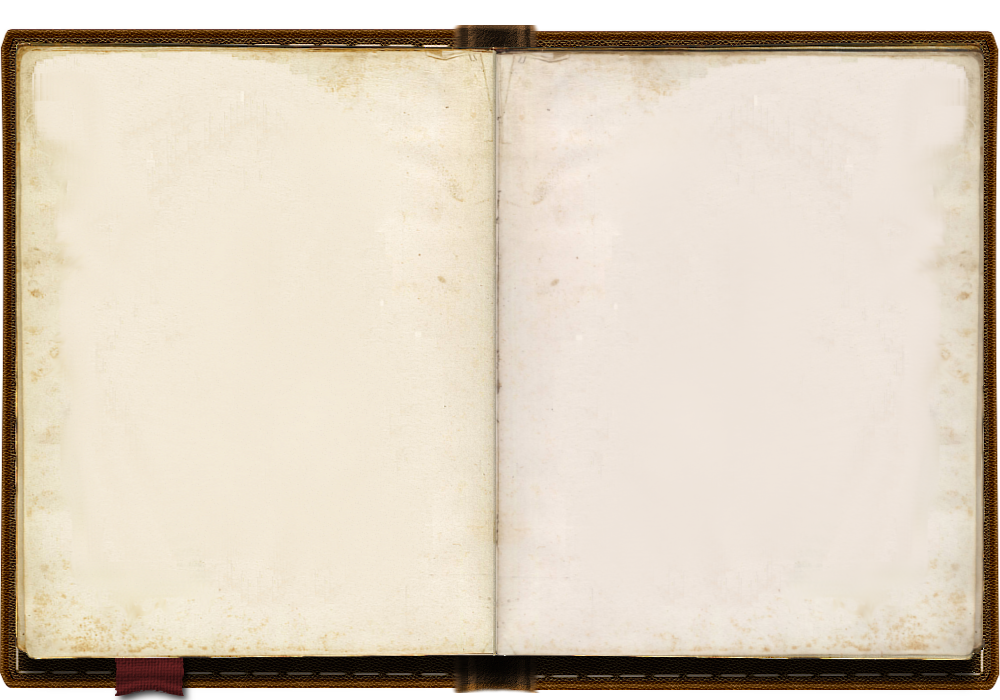
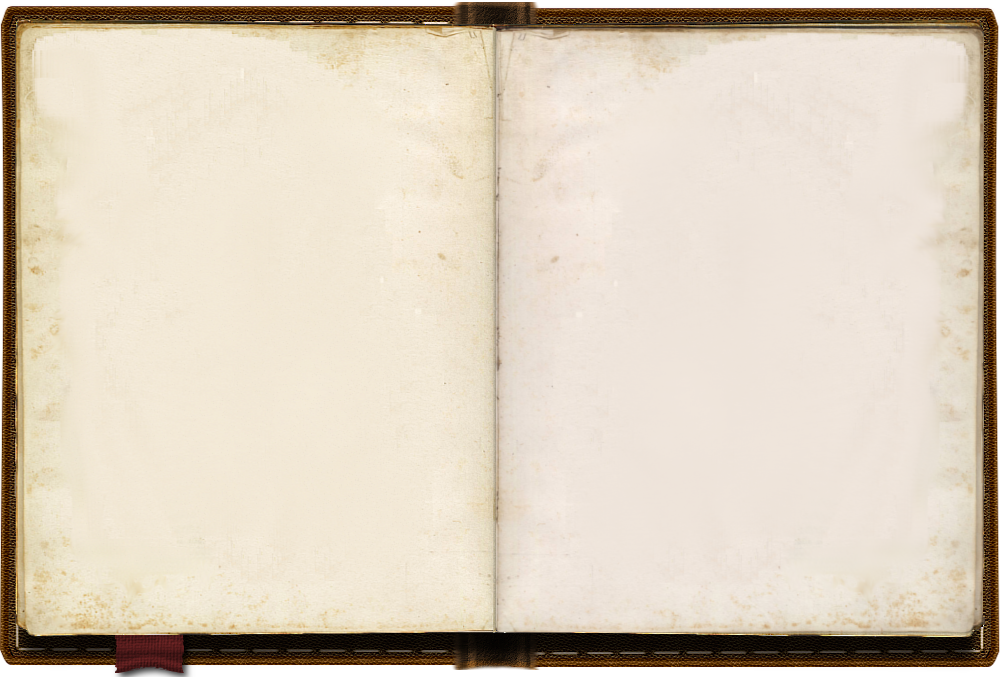
Worked on Responsiveness
The video panel is now fully responsive and production-build ready. Started aligning the BookPanel elements.

Changed region(s): [[0.0, 0.0, 1.0, 0.9926], [0.496, 0.5273, 0.527, 0.5583], [0.434, 0.3722, 0.465, 0.4032]]

diff --git a/app/src/panels/BookPanel.js b/app/src/panels/BookPanel.js
@@ -52,61 +52,61 @@ export default function BookPanel() {
     })
 
     return (
-        <div className="WoodPanel">
-            <CustomBorderB />
-            <Box sx={{ width: '100vw', height: '4vw', maxWidth: '100%' }} />
-            <div
-                style={{
-                    height: '38vw'
-                }}
-            >
-                <Grid container>
-                    <Grid item xs={2.75} />
-                    <Grid item>
-                        <Box
-                            sx={{
-                                width: '55vw',
-                                height: '55vh',
-                                maxWidth: '100%'
-                            }}
-                        >
-                            <HTMLFlipBook
-                                width={520}
-                                height={650}
-                                size='stretch'
-                                maxShadowOpacity={0.5}
-                                mobileScrollSupport={true}
-                                style={{
-                                    zIndex: 1
+        <div style={{ position: 'relative' }}>
+            <div className="WoodPanel">
+                <CustomBorderB />
+                <Box sx={{ width: '100vw', height: '4vh', maxWidth: '100%' }} />
+                <div
+                    style={{
+                        height: '38vw'
+                    }}
+                >
+                    <Grid container>
+                        <Grid item xs={2.75} />
+                        <Grid item>
+                            <Box
+                                sx={{
+                                    width: '55vw',
+                                    height: '55vh',
+                                    maxWidth: '100%'
                                 }}
                             >
-                                <LeftPage imgSrc={pageOne}></LeftPage>
-                                <RightPage imgSrc={pageTwo}></RightPage>
-                                <LeftPage imgSrc={pageThree}></LeftPage>
-                                <RightPage imgSrc={pageFour}></RightPage>
-                                <LeftPage imgSrc={pageFive}></LeftPage>
-                                <RightPage imgSrc={pageSix}></RightPage>
-                            </HTMLFlipBook>
-                        </Box>
+                                <HTMLFlipBook
+                                    width={520}
+                                    height={650}
+                                    size='stretch'
+                                    maxShadowOpacity={0.5}
+                                    mobileScrollSupport={true}
+                                    style={{
+                                        zIndex: 2
+                                    }}
+                                >
+                                    <LeftPage imgSrc={pageOne}></LeftPage>
+                                    <RightPage imgSrc={pageTwo}></RightPage>
+                                    <LeftPage imgSrc={pageThree}></LeftPage>
+                                    <RightPage imgSrc={pageFour}></RightPage>
+                                    <LeftPage imgSrc={pageFive}></LeftPage>
+                                    <RightPage imgSrc={pageSix}></RightPage>
+                                </HTMLFlipBook>
+                            </Box>
+                        </Grid>
                     </Grid>
-                </Grid>
-                <Box sx={{
-                    width: '57vw',
-                    position: 'relative',
-                    top: '-77.5%',
-                    left: '22%'
-                }}>
-                    <img
-                        src={bookBase}
-                        alt='Book Base'
-                        aria-label='Book Base'
-                        draggable='false'
-                        style={{
-                            width: '57vw'
-                        }}
-                    />
-                </Box>
+                </div>
             </div>
+            <img
+                src={bookBase}
+                alt='Book Base'
+                aria-label='Book Base'
+                draggable='false'
+                style={{
+                    width: '57vw',
+                    maxWidth: '57vw',
+                    position: 'absolute',
+                    top: '7vh',
+                    left: '22%',
+                    zIndex: 1
+                }}
+            />
             <Box sx={{ width: '100vw', height: '4vw', maxWidth: '100%' }} />
             <CustomBorder />
         </div>

diff --git a/app/src/panels/VideoPanel.js b/app/src/panels/VideoPanel.js
@@ -4,10 +4,10 @@ import Box from '@mui/material/Box';
 import CustomBorder from '../components/CustomBorders';
 import CustomButtons from '../components/CustomButtons';
 
-export default function CronCloseupPanel() {
+export default function VideoPanel() {
     return (
-        <div className="Stone">
-            <Box sx={{ width: '70vw', height: '50vh', position: 'relative', left: '15%', paddingTop: '5vh' }}>
+        <div className="Stone" style={{ position: 'relative' }}>
+            <Box sx={{ width: '100vw', height: '65vh', maxWidth: '100%' }}>
                 <video
                     src='videos/video-panel-mp4.mp4'
                     autoPlay={true}
@@ -16,24 +16,25 @@ export default function CronCloseupPanel() {
                     width={'100%'}
                     height={'100%'}
                     style={{
-                        borderRadius: 15,
-                        objectFit: 'cover'
+                        objectFit: 'fill',
+                        marginTop: -1
                     }}
                 >
                     This video is unable to load on your browser.
                 </video>
             </Box>
-            <Box sx={{ width: '50vw', position: 'absolute', top: '14%', left: "27.5%" }}>
-                <p style={{ marginTop: 0, marginBottom: 0, color: '#BC9660', fontFamily: 'AlbertText', fontSize: '6vw', padding: 0, whiteSpace: 'nowrap' }}>
+            <Box sx={{ width: '100vw', maxWidth: '100%', position: 'absolute', top: '25%', MozUserSelect: 'none', userSelect: 'none', msUserSelect: 'none', WebkitUserSelect: 'none' }}>
+                <p style={{ marginTop: 0, marginBottom: 0, color: '#BC9660', fontFamily: 'AlbertText', fontSize: '10vmin', whiteSpace: 'nowrap' }}>
                     King Cron
                 </p>
-                <p style={{ marginTop: '2vw', marginBottom: '3vw', color: '#BC9660', fontFamily: 'AlbertText', fontSize: '4vw', whiteSpace: 'nowrap' }}>
+                <p style={{ marginTop: '2vmin', marginBottom: '4vmin', color: '#BC9660', fontFamily: 'AlbertText', fontSize: '8vmin', whiteSpace: 'nowrap' }}>
                     The Kingdom Awaits
                 </p>
                 <CustomButtons />
             </Box>
-            <Box sx={{ width: '100vw', height: '3vh', maxWidth: '100%' }} />
-            <CustomBorder />
+            <Box sx={{ position: 'absolute', top: '95.5%' }}>
+                <CustomBorder />
+            </Box>
         </div >
     );
 }

diff --git a/app/src/components/CustomBorders.js b/app/src/components/CustomBorders.js
@@ -11,7 +11,8 @@ export default function CustomBorderA() {
             style={{
                 width: '100vw',
                 maxWidth: '100%',
-                height: '3vh'
+                height: '3vh',
+                userSelect: 'none'
             }}
         />
     );
@@ -26,7 +27,8 @@ export function CustomBorderB() {
             style={{
                 width: '100vw',
                 maxWidth: '100%',
-                height: '3vh'
+                height: '3vh',
+                userSelect: 'none'
             }}
         />
     );

diff --git a/app/src/components/CustomButtons.js b/app/src/components/CustomButtons.js
@@ -8,13 +8,15 @@ import serverGreenButtonImage from '../media/server-green-button.png';
 
 const PlayNowButton = styled(Button)(({ }) => ({
     width: '12vw',
-    height: '5vh',
+    height: '5vmin',
+    minWidth: '12vw',
+    maxHeight: '5vmin',
     backgroundImage: `url(${playNowImage})`,
     backgroundSize: '12vw 5vh',
     backgroundRepeat: 'no-repeat',
     fontFamily: 'AlbertText',
     color: '#573720',
-    fontSize: '2vw',
+    fontSize: '2.5vmin',
     whiteSpace: 'nowrap',
     '&:hover': {
         color: '#21140B'
